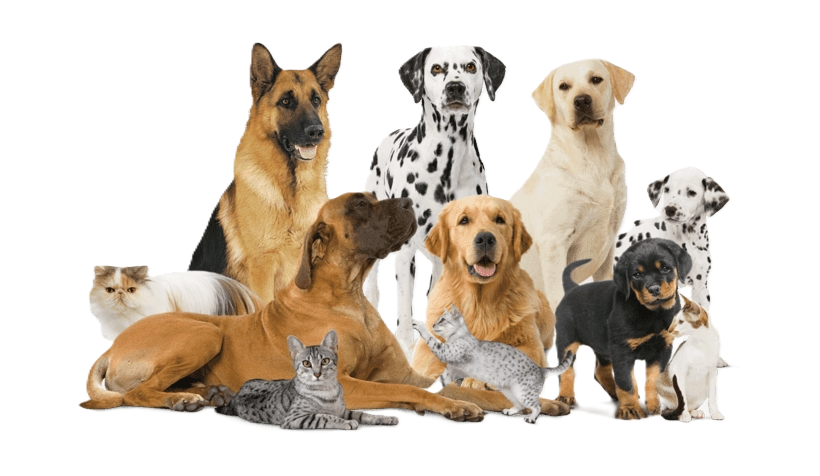
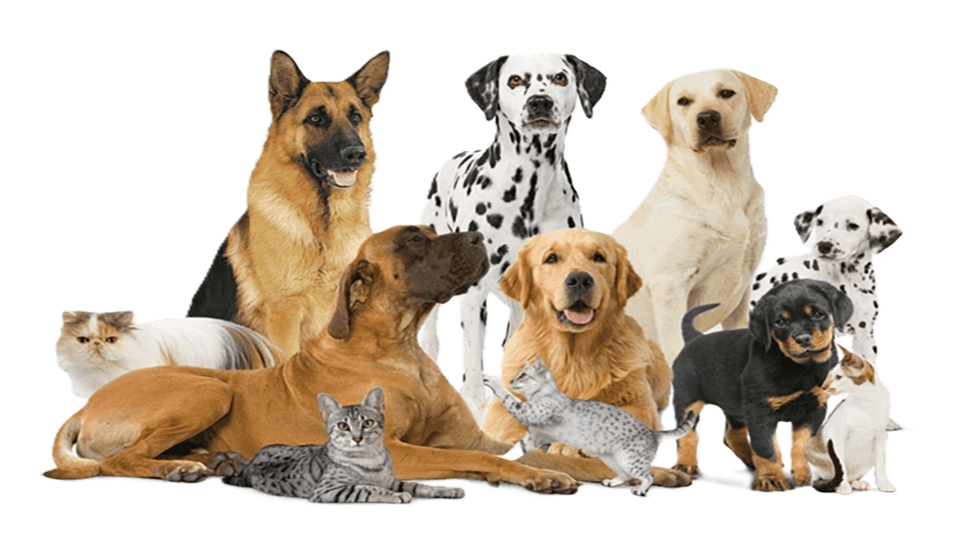
1

diff --git a/index.html b/index.html
@@ -147,10 +147,10 @@ https://templatemo.com/tm-559-zay-shop
                 <div class="container">
                     <div class="row p-5">
                         <div class="mx-auto col-md-8 col-lg-6 order-lg-last">
-                            <img class="img-fluid" src="./assets/img/DOG1f.png" alt="">
+                            <img class="img-fluid" src="./assets/img/DOG31.png" alt="">
                         </div>
                         <div class="col-lg-6 mb-0 d-flex align-items-center">
-                            <div class="text-align-left align-self-center">
+                            <div class="text-align-left">
                                 <h1 class="h1 text-success">Amor en cada Bocado</h1>
                                 <p>
                                     En VitalPet, estamos comprometidos con el <strong>Bienestar</strong> y la
@@ -189,12 +189,11 @@ https://templatemo.com/tm-559-zay-shop
                 <div class="container">
                     <div class="row p-5">
                         <div class="mx-auto col-md-8 col-lg-6 order-lg-last">
-                            <img class="img-fluid" src="./assets/img/DOG&CAT2.png" alt="">
+                            <img class="img-fluid" src="./assets/img/DOGS4.png" alt="">
                         </div>
                         <div class="col-lg-6 mb-0 d-flex align-items-center">
                             <div class="text-align-left">
                                 <h1 class="h1 text-success">Únete a la Revolución</h1>
-                                <h3 class="h2">Ellos merecen lo mejor</h3>
                                 <p>
                                     Descubre el poder de la Dieta BARF, por sus siglas en inglés, Biologically Appropriate Raw Food (alimento crudo biológicamente apropiado) y únete a la revolución
                                     nutricional para tus mascotas. Explora nuestra gama de productos, 

diff --git a/about.html b/about.html
@@ -153,7 +153,7 @@ https://templatemo.com/tm-559-zay-shop
                     </p>
                 </div>
                 <div class="col-md-6">
-                    <img src="assets/img/kratosg.png" alt="About Hero">
+                    <img class="img-fluid" src="assets/img/kratosg.png" alt="About Hero">
                 </div>
             </div>
         </div>
